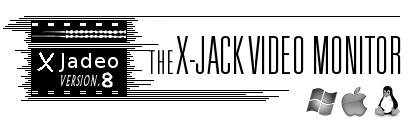
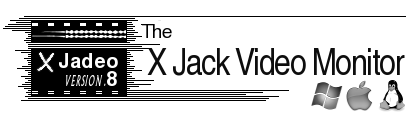
modernize website style

Changed region(s): [[0.3095, 0.192, 0.9905, 0.624], [0.7119, 0.624, 0.9905, 0.936], [0.0619, 0.408, 0.2786, 0.72]]

diff --git a/doc/static/style.css b/doc/static/style.css
@@ -6,7 +6,7 @@
 @media screen {
   body        {background-color:#333333;}
   #content    {max-width: 50em; margin: 1em auto;}
-  .box        {padding: 1em; background: white; border-radius:12px; border:1.5px solid #071419; overflow:hidden;}
+  .box        {padding: 1em; background: white; border:1.5px solid #071419; overflow:hidden;}
 }
 
 @media all {
@@ -24,9 +24,9 @@
   a.thumbnail:hover img
               {border-color:#071419;}
   a.thumbnail img
-              {width:25%; margin:.5em 2%; border: 1px solid transparent; border-radius:12px; overflow:hidden; }
-  pre.screen  {margin:.5em; border:1.5px solid #071419; border-radius:12px; padding:.5em; background-color:#323; color:#4f4;}
-  div.downlo  {padding:1em; border:3px double #071419; border-radius:12px;}
+              {width:25%; margin:.5em 2%; border: 1px solid transparent; overflow:hidden; }
+  pre.screen  {margin:.5em; border:1.5px solid #071419; padding:.5em; background-color:#323; color:#4f4;}
+  div.downlo  {padding:1em; border:3px double #071419;}
   a, a:visited, a:link
               {color: #071419; border:0px;}
   a:hover, a:active
@@ -54,7 +54,7 @@
   #topleft    {background:white url(xjadeo_banner.png) no-repeat scroll center center;}
   #topright   {min-width:15em;}
   #frontlink  {color: #071419;}
-  #frontimg   {font-size:300%; line-height:1.5em; min-height:98px; padding:2.0em 1em; font-variant:small-caps; text-shadow: 0px 0px 6px #ffffff; background:url(firstchoice.jpg) no-repeat scroll center center; background-size: 100% auto}
+  #frontimg   {font-size:300%; line-height:1.3em; padding:1.75em 1em; font-variant:small-caps; color:#fff; text-shadow: 0px 0px 4px #000000; background:url(firstchoice.jpg) no-repeat scroll center center; background-size: 100% auto}
   div.clear   {clear:both; height:1em;}
 }
 
@@ -75,5 +75,5 @@
 @media screen and (max-width: 483px) {
   #topleft    {min-width:16em;}
   #topleft    {background-size: 90% auto;}
-  #frontimg   {font-size:175%; font-weight:bolder; padding:.5em 1em;}
+  #frontimg   {font-size:175%; font-weight:bolder; padding:.4em 1em;}
 }
